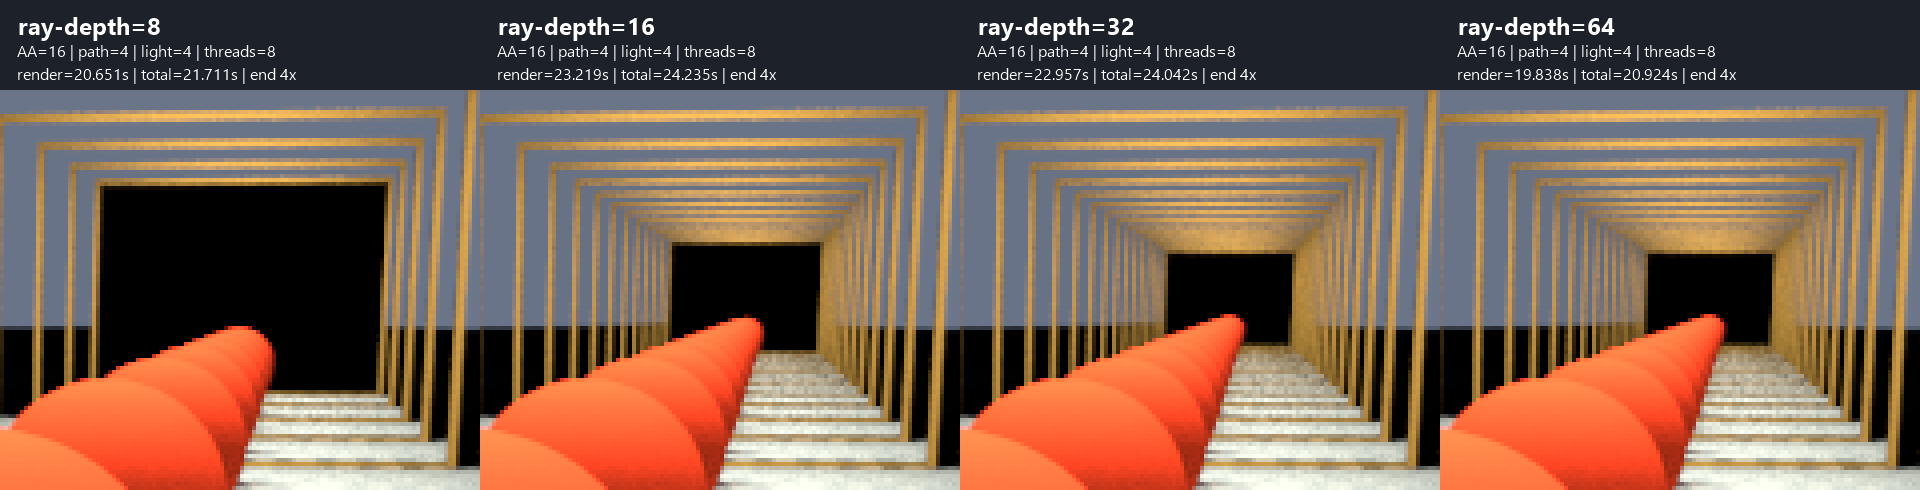
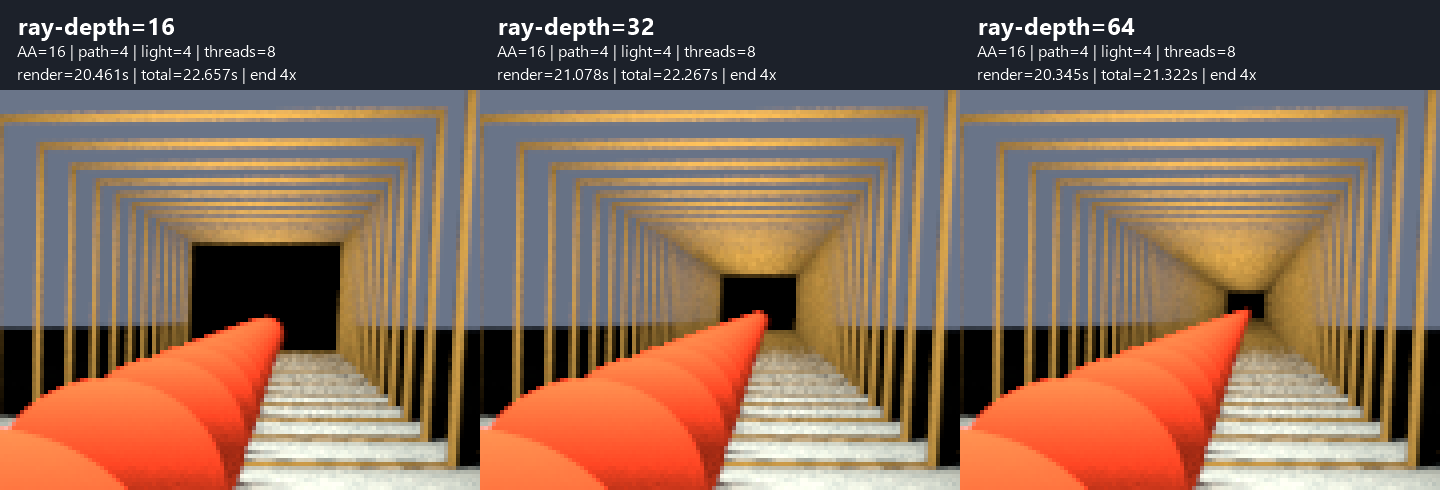
Remove hard cap on recursive ray tracing
Let the configured ray depth control specular, glossy, and filter recursion. Make mirror-tunnel depth comparisons configurable and update the documented results and images.

diff --git a/examples/mirror_tunnel/create_depth_comparison.py b/examples/mirror_tunnel/create_depth_comparison.py
@@ -3,29 +3,42 @@ import argparse
 from pathlib import Path
 from create_preview import read_tga, png
 
-DEPTHS = (8, 16, 32, 64)
+def terminal_region(image):
+    """Near-black component at the vanishing point, excluding nearby shadows."""
+    remaining = {(x, y) for y in range(105, 205) for x in range(440, 560)
+                 if max(image[y][3*x:3*x+3]) < 5}
+    largest = set()
+    while remaining:
+        todo, component = [remaining.pop()], set()
+        while todo:
+            x, y = todo.pop()
+            component.add((x, y))
+            for neighbor in ((x-1, y), (x+1, y), (x, y-1), (x, y+1)):
+                if neighbor in remaining:
+                    remaining.remove(neighbor)
+                    todo.append(neighbor)
+        touches_edge = any(x in (440, 559) or y in (105, 204) for x, y in component)
+        near_end = any(500 <= x < 525 and 145 <= y < 170 for x, y in component)
+        if not touches_edge and near_end and len(component) > len(largest):
+            largest = component
+    bounds = ((min(x for x, y in largest), min(y for x, y in largest),
+               max(x for x, y in largest), max(y for x, y in largest))
+              if largest else None)
+    return len(largest), bounds
 
 
 def main():
     parser = argparse.ArgumentParser(description=__doc__)
     parser.add_argument('directory', type=Path)
+    parser.add_argument('--depths', nargs='+', type=int, default=(16, 32, 64))
     args = parser.parse_args()
-    images = [read_tga(args.directory / f'depth-{d}.tga') for d in DEPTHS]
+    images = [read_tga(args.directory / f'depth-{d}.tga') for d in args.depths]
     # Scene-specific measurement of the terminal dark region, not all shadows.
-    for depth, image in zip(DEPTHS, images):
-        seen, todo = set(), [(510, 150)]
-        while todo:
-            x, y = todo.pop()
-            if ((x, y) in seen or not (440 <= x < 560 and 105 <= y < 205)
-                    or max(image[y][3*x:3*x+3]) >= 5):
-                continue
-            seen.add((x, y))
-            todo.extend(((x-1, y), (x+1, y), (x, y-1), (x, y+1)))
-        bounds = ((min(x for x, y in seen), min(y for x, y in seen),
-                   max(x for x, y in seen), max(y for x, y in seen))
-                  if seen else None)
-        print(f'depth={depth}: terminal dark pixels={len(seen)}, bounds={bounds}')
-    print(f'Depth 32 and 64 RGB-identical: {images[2] == images[3]}')
+    for depth, image in zip(args.depths, images):
+        count, bounds = terminal_region(image)
+        print(f'depth={depth}: terminal dark pixels={count}, bounds={bounds}')
+    for a, b, left, right in zip(args.depths, args.depths[1:], images, images[1:]):
+        print(f'Depth {a} and {b} RGB-identical: {left == right}')
     png(args.directory / 'comparison.png',
         [b''.join(image[y] for image in images) for y in range(600)])
     crops = []

diff --git a/src/integrator/surface/integrator_montecarlo.cc b/src/integrator/surface/integrator_montecarlo.cc
@@ -710,7 +710,8 @@ std::pair<Rgb, float> MonteCarloIntegrator::recursiveRaytrace(RandomGenerator &r
 			alpha += dispersive_alpha;
 			++alpha_count;
 		}
-		if(ray_level < 20 && bsdfs.has(BsdfFlags::Glossy | BsdfFlags::Specular | BsdfFlags::Filter))
+		// The enclosing raydepth/additionaldepth check controls recursion.
+		if(bsdfs.has(BsdfFlags::Glossy | BsdfFlags::Specular | BsdfFlags::Filter))
 		{
 			// glossy reflection with recursive raytracing:
 			if(bsdfs.has(BsdfFlags::Glossy))

diff --git a/examples/mirror_tunnel/README.md b/examples/mirror_tunnel/README.md
@@ -33,7 +33,7 @@ xmake run yafaray_mirror_tunnel mirror_tunnel.tga --aa-samples 32 --path-samples
 # Shorter reflection chain, for comparison
 xmake run yafaray_mirror_tunnel depth8.tga --ray-depth 8
 
-# Request a larger limit and select workers (see the internal cap below)
+# Extend the chain and select workers
 xmake run yafaray_mirror_tunnel depth64.tga --ray-depth 64 --threads 4
 
 # Optional lossless PNG conversion using Python's standard library
@@ -45,7 +45,7 @@ python -B create_preview.py build/mirror_tunnel.tga build/mirror_tunnel.png
 | `--aa-samples N` | 16 | Film `AA_minsamples`; camera/edge sampling |
 | `--path-samples N` | 4 | Diffuse indirect-light samples |
 | `--light-samples N` | 4 | Area-light samples; shadow noise |
-| `--ray-depth N` | 32 | Requested integrator `raydepth`, 1..128; also subject to the library's internal recursion cap |
+| `--ray-depth N` | 32 | Integrator `raydepth`, 1..128 in this example; controls specular recursion |
 | `--threads N` | -1 | Rendering workers; -1 selects automatically |
 | `--help` | | Show usage without rendering |
 
@@ -74,84 +74,107 @@ fill on the sphere and soft shadows beneath it.
 Both mirrors use material `type=mirror`, white `color`, and `reflect=0.98`.
 Every reflection retains approximately 98% of the incoming contribution, so
 successive images gradually darken. Raising `raydepth` extends the specular
-chain until the library's internal cap is reached; increasing diffuse
-`bounces` or `path_samples` is not a substitute.
+chain; increasing diffuse `bounces` or `path_samples` is not a substitute.
+The former internal `ray_level < 20` cap has been removed. The existing
+`ray_level <= raydepth + additionaldepth` check now controls this recursion;
+`additionaldepth` is the existing per-material extension (zero in this scene).
 The apparent infinity is a finite render: recursion, finite mirror edges,
 and image resolution limit the visible tunnel. A dark termination may remain
 at the vanishing point when the recursion limit is reached.
 
-## Reflection depth comparison: 8, 16, 32 and 64
+## Reflection depth comparison after removing the hard cap
 
-Rendered on 4 November 2026 with identical geometry, camera, materials and
-installed OpenCV-enabled shared library: 800 x 600, AA=16, path samples=4,
-light samples=4, and 8 automatically selected workers. Run directory:
-`build/depth-comparison/20261104-084503-797`.
+The library no longer stops specular/glossy/filter recursion at
+`ray_level < 20`. In `MonteCarloIntegrator::recursiveRaytrace`, the enclosing
+`ray_level <= raydepth + additionaldepth` condition now provides the limit.
+The per-material `additionaldepth` behavior is preserved; it is zero for this
+scene. No camera, geometry, lighting, material, or sampling settings changed.
+
+The OpenCV-enabled shared library was rebuilt with TDM-GCC-64 10.3.0 and
+installed before rendering all three depths again on 4 November 2026.
+Output: 800 x 600, AA=16, path samples=4, light samples=4, 8 automatically
+selected workers. Run directory:
+`build/depth-comparison/20261104-085505-097`.
+
+From the repository root, rebuild/install the library:
 
 ```powershell
-# Render all four depths and create labeled PNG comparisons and timings.csv
-.\compare_depths.ps1
-
-# Recreate the comparisons from the saved TGAs without rendering again
-.\compare_depths.ps1 -ExistingRunDirectory build/depth-comparison/20261104-084503-797
+& 'C:/Program Files/CMake/bin/cmake.exe' --build --preset tdm-gcc64-shared-opencv --parallel 4
+& 'C:/Program Files/CMake/bin/cmake.exe' --install build/tdm-gcc64-shared-opencv
 ```
 
-| Requested ray depth | Renderer-only time | Launch + render + TGA save | Terminal dark region bounding box |
-| --- | --- | --- | --- |
-| 8 | 20.651 s | 21.711 s | 71 x 51 pixels |
-| 16 | 23.219 s | 24.235 s | 37 x 26 pixels |
-| 32 | 22.957 s | 24.042 s | 31 x 21 pixels |
-| 64 | 19.838 s | 20.924 s | 31 x 21 pixels |
+Then, from this example directory:
 
-Left to right: **8 — 16 — 32 — 64**. Headings include the settings and both
+```powershell
+# Render 16, 32 and 64, producing labeled PNG comparisons and timings.csv
+.\compare_depths.ps1 -Depths 16,32,64
+
+# Recreate the comparisons from saved TGAs without rendering again
+.\compare_depths.ps1 -Depths 16,32,64 -ExistingRunDirectory build/depth-comparison/20261104-085505-097
+
+# Other distinct depth lists are supported, in the supplied order
+.\compare_depths.ps1 -Depths 8,16,32,64
+```
+
+| Ray depth | Renderer-only time | Launch + render + TGA save | Terminal dark region bounding box | Near-black pixels |
+| --- | --- | --- | --- | --- |
+| 16 | 20.461 s | 22.657 s | 37 x 26 pixels | 789 |
+| 32 | 21.078 s | 22.267 s | 18 x 13 pixels | 184 |
+| 64 | 20.345 s | 21.322 s | 9 x 6 pixels | 41 |
+
+Left to right: **16 — 32 — 64**. Headings include settings and both
 renderer-only and total elapsed time.
 
-![Reflection depths 8, 16, 32 and 64: full views](images/depth-comparison.png)
+![Reflection depths 16, 32 and 64 without the hard cap](images/depth-comparison.png)
 
-The identical region `x=[440,560)`, `y=[105,205)` in each original image,
+The identical region `x=[440,560)`, `y=[105,205)` from each original image,
 enlarged 4x with nearest-neighbor sampling, without smoothing or retouching:
 
-![Reflection depth comparison: tunnel end at 4x](images/depth-comparison-end.png)
+![Tunnel end at 4x after removing the hard cap](images/depth-comparison-end.png)
 
-**The noticeable black patch does not disappear at any tested depth.** At 8
-it is large; 16 reduces it substantially; 32 makes it somewhat smaller again.
-The 32 and 64 outputs have **exactly identical RGB pixels across the entire
-image**, so increasing to 64 provides no visual gain here.
+**Depth 64 substantially reduces the black termination, but does not eliminate
+it.** It is now a small approximately 9 x 6 pixel mark in the original image,
+which is less prominent in the full view but still visible when inspected
+and particularly in the enlarged crop. Depth 32 has a more obvious 18 x 13
+pixel termination; depth 16 leaves a conspicuous 37 x 26 pixel patch.
+None of these tests establishes a depth at which the mark disappears entirely.
 
-This plateau is explained by a second limit in the library. In
-`MonteCarloIntegrator::recursiveRaytrace`, `src/integrator/surface/integrator_montecarlo.cc`,
-the requested `raydepth` is checked first, but specular/glossy/filter recursion
-also requires **`ray_level < 20`**. Thus requesting 32 or 64 cannot extend the
-mirror chain beyond that internal limit. When recursion terminates, its
-initial zero color leaves a black end in the reflected scene. The comparison
-does not modify this library behavior.
+The earlier capped run (`20261104-084503-797`) produced identical images at
+32 and 64, with a 31 x 21 pixel terminal region at both settings. After the
+change, 32 and 64 differ, and their terminal regions continue shrinking.
+As a control, the new depth-16 image is **RGB-identical** to the old depth-16
+image, confirming unchanged behavior below the former internal cap.
+These checks use the decoded RGB pixels, not TGA metadata or timestamps.
 
 For a repeatable scene-specific size estimate, `create_depth_comparison.py`
-flood-fills the four-connected dark component containing `(510,150)` within
-the crop above, requiring all three 8-bit RGB channels to be below 5.
-Its pixel counts are **3,018 / 789 / 537 / 537** respectively; the table gives
-the inclusive bounding-box dimensions. The region is partly occluded by the
-reflected sphere, so this is not the full theoretical mirror aperture or a
-general visibility metric. The remaining approximately 31 x 21 pixel patch
-is still visible at the original 800 x 600 resolution.
+finds four-connected components with all three 8-bit RGB channels below 5
+inside the displayed crop. It excludes components touching the crop edges
+and selects the largest component intersecting the vanishing-point region
+`x=[500,525)`, `y=[145,170)`. This excludes nearby floor shadows and remains
+valid when the shrinking termination no longer contains the old fixed seed.
+The table reports inclusive bounding-box dimensions. The reflected sphere
+partly occludes the region; this is not the full theoretical mirror aperture
+or a general visibility score.
 
-**Use 16 for previews and retain 32 for the longest chain available through
-this example; 64 is unnecessary with the current library.** Eliminating the
-termination would require a separate library change to the hard cap and a
-new convergence comparison, or a change to the scene. This experiment does
-not establish a depth at which the patch would become invisible without
-that cap.
+**Use 16 for previews, 32 for a longer tunnel, and 64 when reducing the dark
+end matters.** For this particular scene, 64 provides the best result of the
+three tested depths. The example still accepts depths up to 128; deeper
+settings have not been measured here. Higher recursion can cost considerably
+more in other scenes, especially with glossy branching; these timings do not
+establish a general depth-independent render cost.
 
-Times are sequential, single-run local measurements. The non-monotonic
-ordering, including 64 being faster than 32 despite identical output, should
-not be interpreted as a performance benefit from increasing recursion depth.
-The full four-render batch took about **91 seconds**, excluding PNG generation.
+Times are sequential single-run local measurements. Most pixels do not need
+very deep recursion, while the deepest chain occupies a small screen region.
+The similar times and their non-monotonic ordering should not be interpreted
+as a speed benefit from increasing depth. The three-run batch took about
+**66 seconds**, excluding PNG generation and the library rebuild.
 
 ## Rendered result
 
 Built and rendered on 4 November 2026 with TDM-GCC-64 10.3.0 and the installed
 OpenCV-enabled shared library. The final view at the default settings
 (AA=16, path samples=4, light samples=4, ray depth=32, 8 detected workers)
-took **22.120 seconds** of renderer time. Timing varies with the machine.
+took **21.078 seconds** of renderer time after removal of the hard cap. Timing varies with the machine.
 The application verified the TGA header, dimensions and pixel data size;
 the resulting PNG was visually checked. `--help` and rejection of AA=0 and
 ray depth=129 were also checked.
